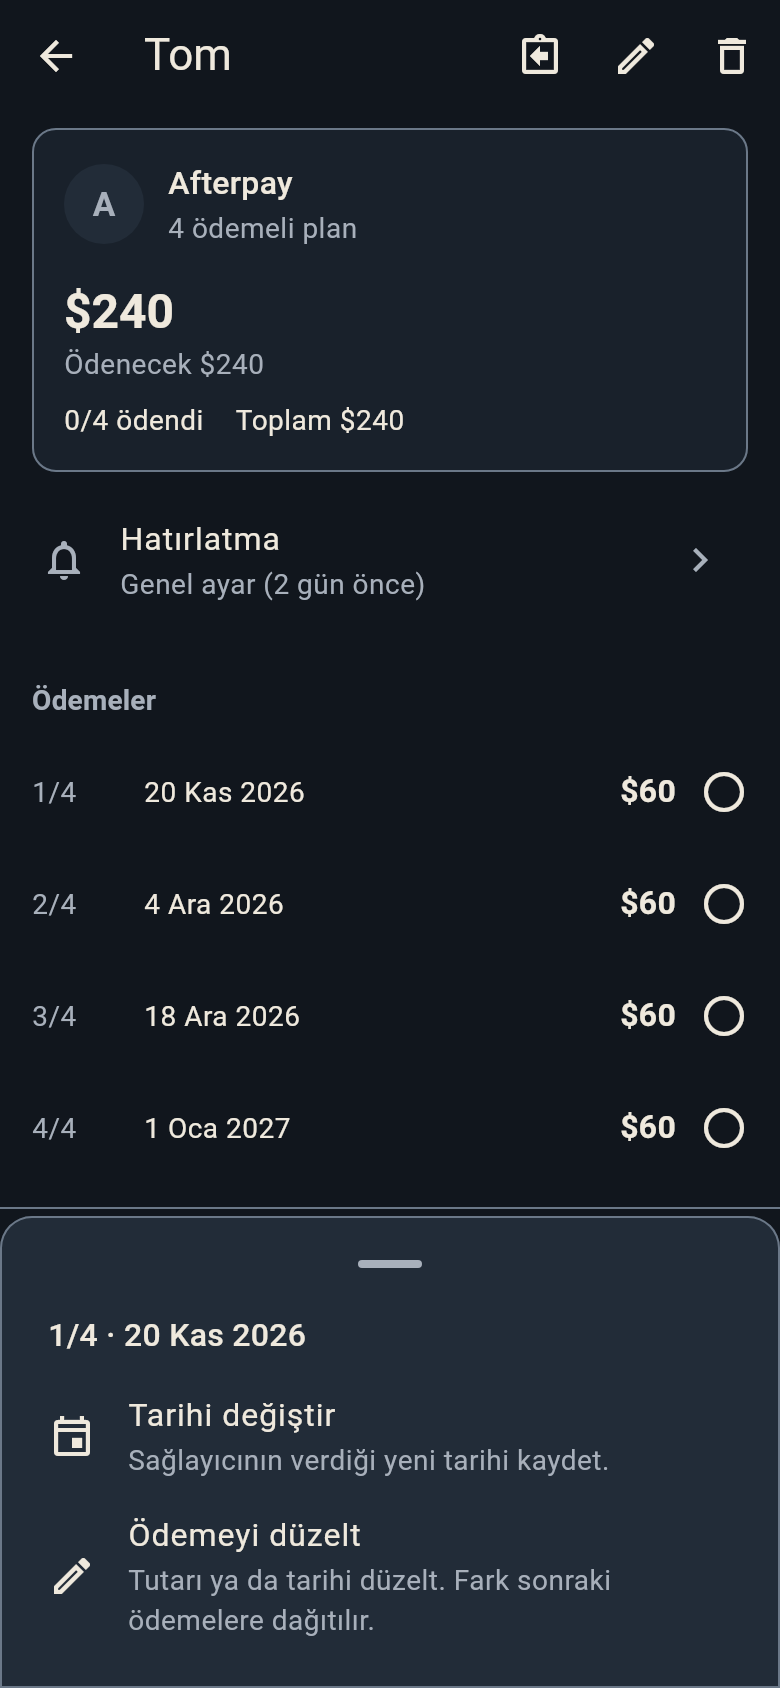
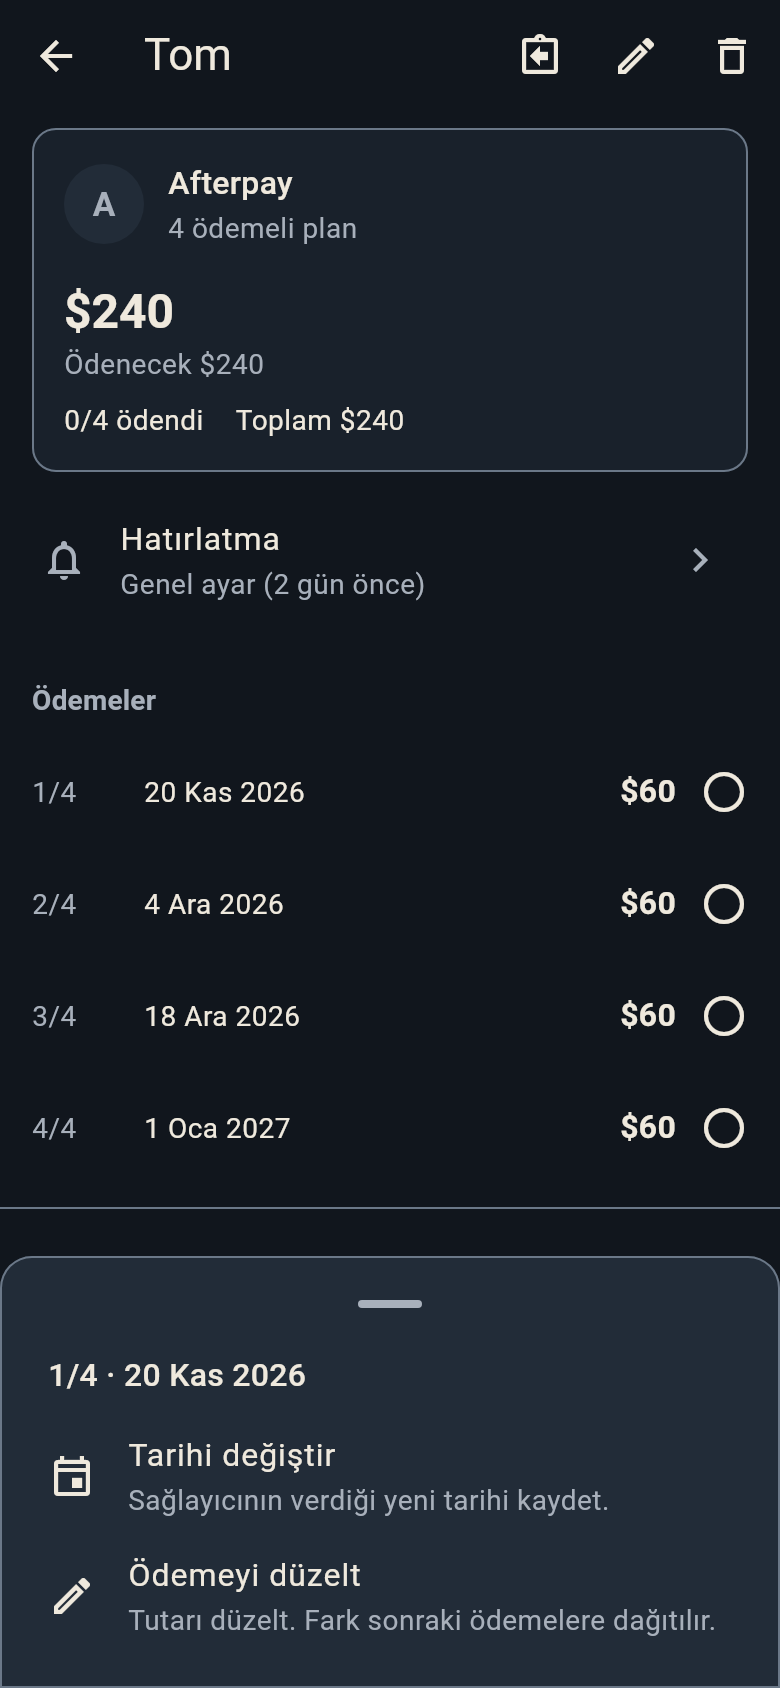
20 follow-up: one way to change a date; the edit dialog changes the amount only
Claude-Session: https://claude.ai/code/session_01Cwxe7uCC1Qrz5oAxbcyd38

Changed region(s): [[0.0, 0.7085, 1.0, 0.9858], [0.8, 0.955, 0.8923, 0.9858], [0.0615, 0.9242, 0.1231, 0.955]]

diff --git a/lib/features/plans/plan_detail_screen.dart b/lib/features/plans/plan_detail_screen.dart
@@ -6,7 +6,6 @@ import 'package:material_ui/material_ui.dart';
 
 import '../../app/format.dart';
 import '../../app/providers.dart';
-import '../../core/design/form_fields.dart';
 import '../../core/design/haptics.dart';
 import '../../core/design/kalan_dialog.dart';
 import '../../core/design/widgets.dart';
@@ -517,12 +516,10 @@ class _EditPaymentDialog extends StatefulWidget {
 class _EditPaymentDialogState extends State<_EditPaymentDialog> {
   final _formKey = GlobalKey<FormState>();
   late final TextEditingController _amount;
-  late LocalDate _date;
 
   @override
   void initState() {
     super.initState();
-    _date = widget.payment.date;
     _amount = TextEditingController();
   }
 
@@ -552,13 +549,8 @@ class _EditPaymentDialogState extends State<_EditPaymentDialog> {
             mainAxisSize: MainAxisSize.min,
             crossAxisAlignment: CrossAxisAlignment.stretch,
             children: [
-              DateField(
-                label: l10n.fieldPaymentDate,
-                value: _date,
-                format: context.longDate,
-                onChanged: (d) => setState(() => _date = d),
-              ),
-              const SizedBox(height: KalanSpace.md),
+              // The amount only: a date changes with "Change date" (20),
+              // which previews the periods and keeps the original date.
               AmountField(
                 fieldKey: const ValueKey('edit-amount'),
                 controller: _amount,
@@ -581,7 +573,7 @@ class _EditPaymentDialogState extends State<_EditPaymentDialog> {
           onPressed: () {
             if (!_formKey.currentState!.validate()) return;
             Navigator.pop(context, (
-              _date,
+              widget.payment.date,
               widget.ref.parseMoney(context, _amount.text)!,
             ));
           },

diff --git a/test/features/plans_test.dart b/test/features/plans_test.dart
@@ -24,7 +24,8 @@ void main() {
     await tester.tap(find.byKey(const ValueKey('payment-edit')));
     await tester.pumpAndSettle();
     expect(find.text('Ödemeyi düzelt'), findsOneWidget);
-    expect(find.text('Ödeme tarihi'), findsOneWidget);
+    // The amount only; dates change with "Change date" (20).
+    expect(find.text('Ödeme tarihi'), findsNothing);
     await tester.enterText(find.byKey(const ValueKey('edit-amount')), '160');
     await tester.tap(find.text('Kaydet'));
     await tester.pumpAndSettle();
@@ -60,7 +61,8 @@ void main() {
     await tester.pumpAndSettle();
     expect(
       find.text(
-        'Farkı alacak sonraki ödeme yok. Yalnızca tarihi değiştirebilirsin.',
+        'Farkı alacak sonraki ödeme yok. Bu taksitin tutarı tek başına '
+        'değiştirilemez.',
       ),
       findsOneWidget,
     );

diff --git a/docs/DECISIONS.md b/docs/DECISIONS.md
@@ -667,4 +667,5 @@ Yol Haritası 20. Açık soruları ürün sahibi iş tanımında cevapladı (Kar
 | Bugünden önceye kayma (uygulama kararı) | Anahtar açıkken sonraki bir taksit bugünden önceye düşecekse (daha önce tek başına öne alınmış bir taksit yüzünden) kayıt yapılmaz; önizlemede "Sonraki bir taksit bugünden önceye düşüyor. Anahtarı kapatabilir ya da başka bir tarih seçebilirsin." En az riskli seçim: hiçbir taksit sessizce gecikmiş olmaz. |
 | Metinler | Bütün yeni anahtarların çevirmen açıklamasında "Kalan yalnızca kayıt tutar; sağlayıcıda değişiklik yapmaz. Erteleme önerir gibi yazma." notu. Örnek metinler birebir; "Kalan +{amount}" / "Left +{amount}" ve "Söz verilmiş" / "Committed" ok karakteri olmadan (ok ikon). |
 | İnceleme bulguları (mimar) | (1) Israrlı hatırlatmadaki "Yarın hatırlat" kaydı (`skipsDay`) taşınan ödemenin yeni tarihindeki bir hatırlatmayı silebilir ya da eski günde hatırlatabilirdi: kayıt yalnızca basıldığı güne (bir gün önce) göre hâlâ uyan ödemeye uygulanır (`snoozeStillFits`, tarihi değişmeyen ödemede her zaman uyar; testli). (2) Taşınan "Sonra öde" planının düzenleme ekranı kuralın vereceği tarihi gösteriyor, kayıt taşınan tarihi saklıyordu: tek saf kural `keepsMovedPayLaterDate` hem ekranda hem kayıtta. (3) Ekran açıkken taksit ödenir ya da plan bekletilirse sakin boş durum "Bu taksitin tarihi artık buradan değiştirilemiyor."; gün dönünce geçmişte kalan seçili tarih için "Yeni bir tarih seç." (4) Kayıttan sonra ekran kapanırken yeni tarih "Şu anki tarih" olarak bir an görünmez (kayıt anındaki plan gösterilir). (5) "Bu tarih bir sonraki taksitten sonra." ödenmiş taksidi sonraki taksit saymaz. |
+| Tek tarih yolu (ürün sahibi, 20 Kasım 2026) | "Ödemeyi düzelt" penceresinden tarih alanı kalktı; pencere yalnızca tutarı değiştirir. Taksit tarihi her zaman "Tarihi değiştir"den değişir (önizleme ve "ilk tarih" notu her seferinde). Kart taksitlerinde böylece elle tarih değiştirme hiç yok (Karar 4, DECISIONS 4 ve 23 ile tutarlı). Son taksitte fark alınamayınca metin "Farkı alacak sonraki ödeme yok. Bu taksitin tutarı tek başına değiştirilemez." / "There's no later payment to take the difference, so this amount can't change on its own." oldu (eski metin artık olmayan tarih alanını gösteriyordu). Daha önce pencereden değişmiş tarihler ve "Düzeltildi" işaretleri olduğu gibi kalır. |
 

diff --git a/docs/ILERLEME.md b/docs/ILERLEME.md
@@ -43,6 +43,8 @@ Yol haritası maddeleri (0-47) için `/clear` sonrası hafıza. `kalan-gelistirm
 
 - 20. Taksit erteleme (20 Kasım 2026): plan ayrıntısında açık planın ödenmemiş taksitine dokununca alt sayfa: "Tarihi değiştir" ve eski "Ödemeyi düzelt"; tarih seçici (en erken bugün, sınır yok) → "Tarihi değiştir" ekranı: şu anki ve yeni tarih, "Sonraki taksitleri de kaydır" (kapalı), "Dönemlere etkisi" (yalnızca toplamı değişen dönemler, mürekkep renginde işaret ve okla "Kalan +$60", gelir yoksa "Söz verilmiş"; değişmiyorsa "Dönem değişmiyor; kalan aynı kalıyor."; en çok 6 + "ve N dönem daha"; sonraki taksiti geçince "Bu tarih bir sonraki taksitten sonra.") → Kaydet (tek işlem); notta "Ertelendi / Öne alındı · ilk tarih …"; plan listesi tarihe göre, numaralar korunur; kart taksitlerinde, beklemedeki ve kapatılmış planda, ödenmiş taksitte yok; "Sonra öde" dahil; bildirimler yeni tarihe kurulur, eski erteleme ("Akşam/Yarın hatırlat") taşınan ödemeyi eski günde hatırlatmaz; şema v15
 
+- 20 ardından (20 Kasım 2026): tek tarih yolu; "Ödemeyi düzelt" yalnızca tutarı değiştirir, tarih her zaman "Tarihi değiştir"den (ürün sahibi kararı)
+
 Ara işler:
 
 - Arayüz uyum düzenlemesi (18 Kasım 2026): iPhone'da sağdan kayan sayfa ve kenardan geri, Android'de öngörülü geri; onay pencereleri iPhone'da Apple düzeninde düz Kalan penceresi; anahtarlar iki telefonda mürekkep renginde; boşluk ve köşe ölçüleri tek dosyada; "ödendi" ve kayıtta hafif titreşim; bekçi testi ve iPhone golden'ları (40-43)
